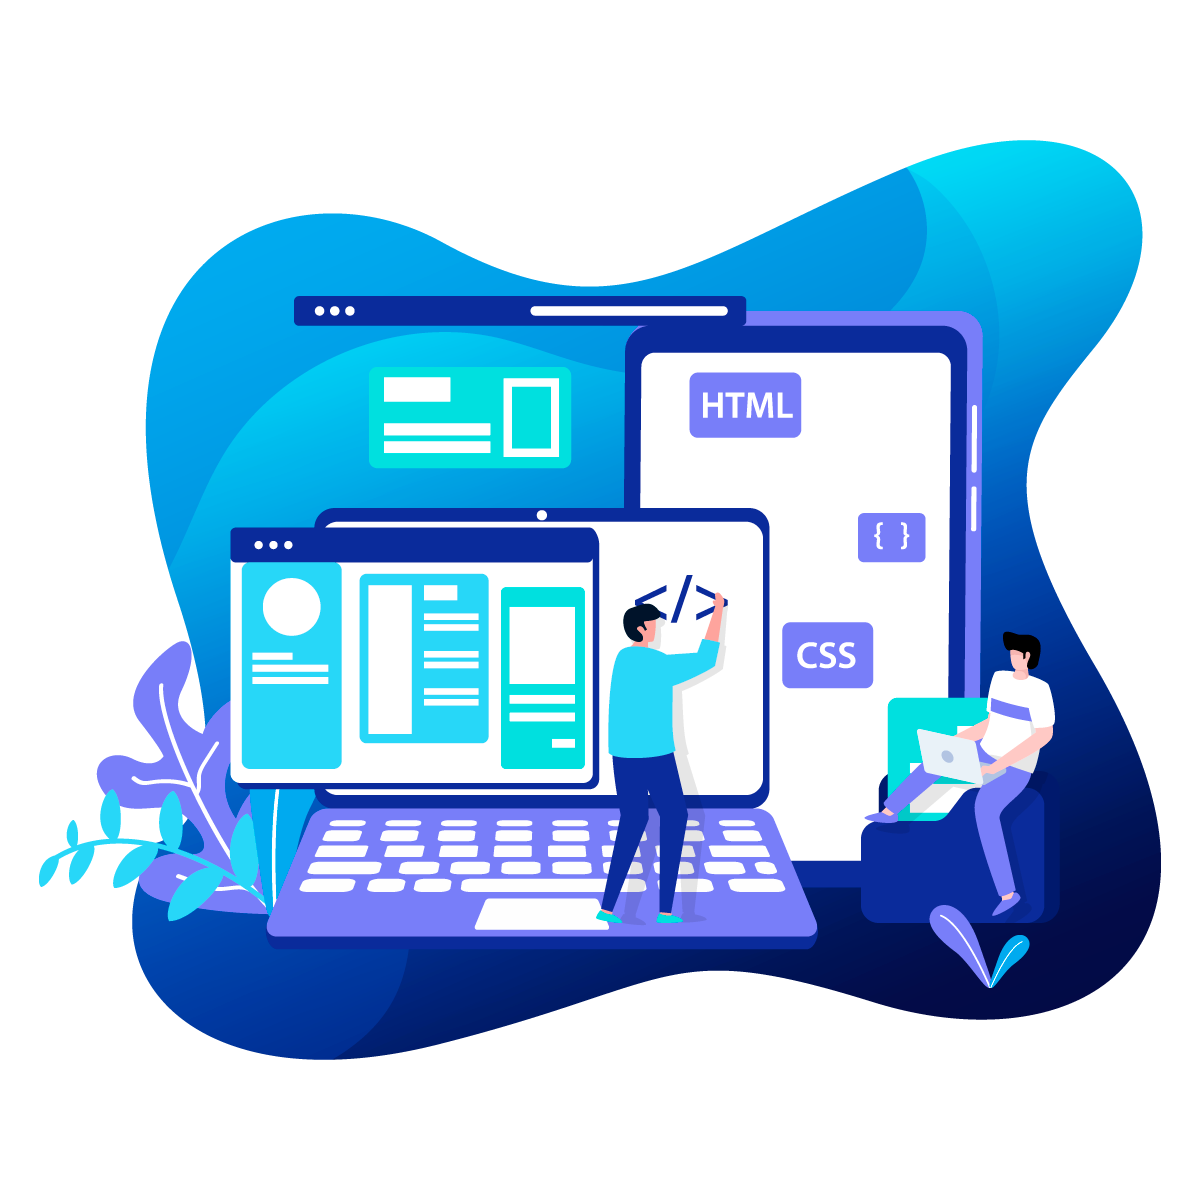
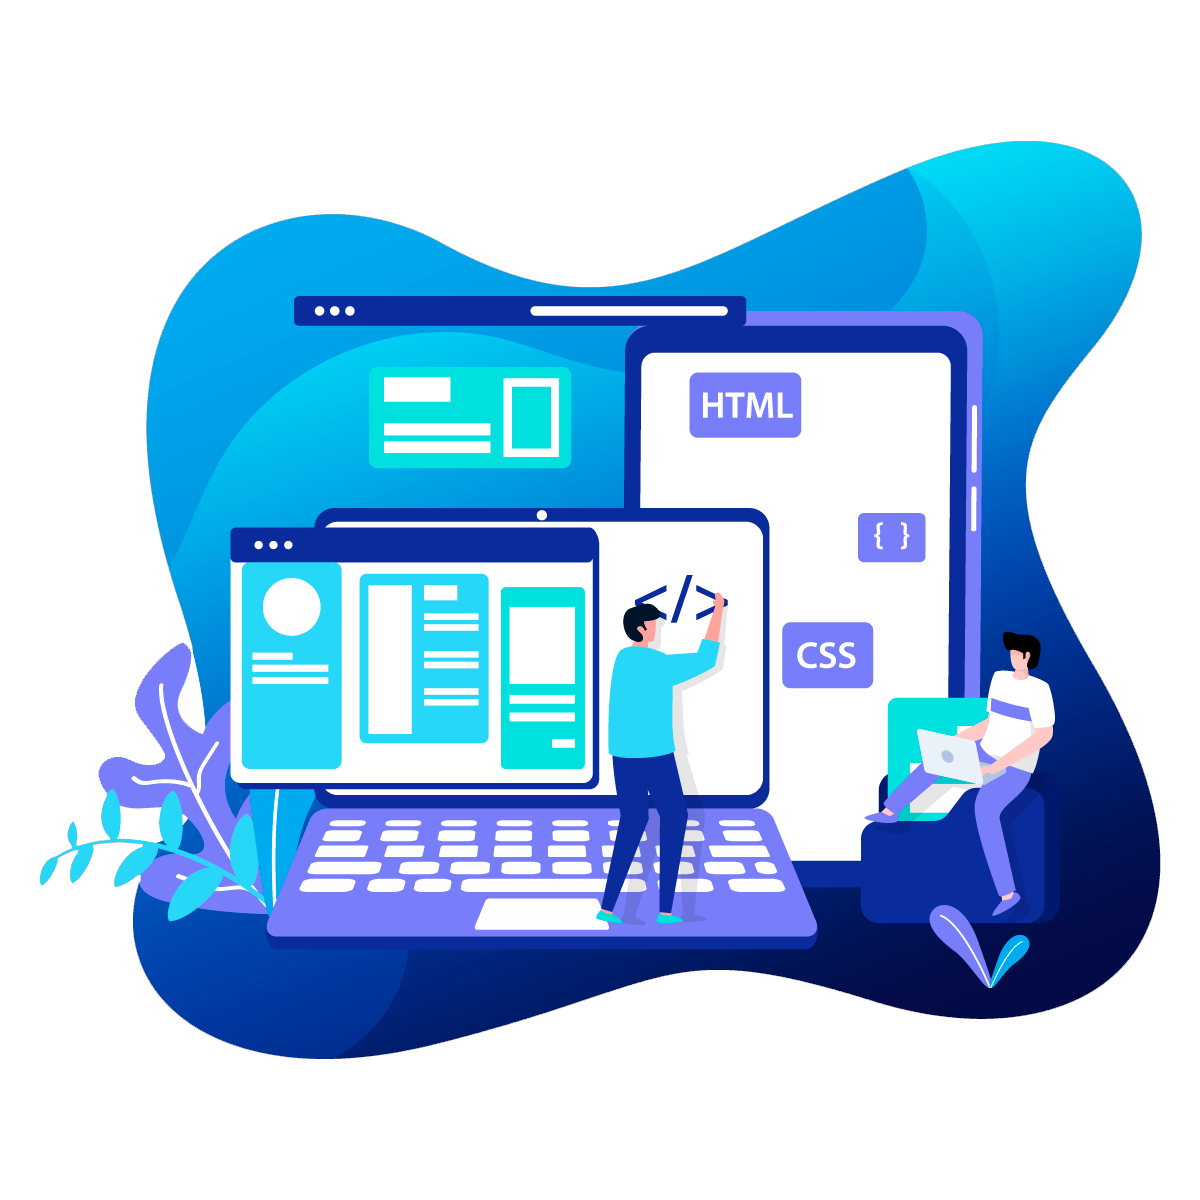
cropped homepage image and added more styles

Changed region(s): [[0.0925, 0.7092, 0.1233, 0.74], [0.0617, 0.6783, 0.0925, 0.7092], [0.0308, 0.7092, 0.0617, 0.74]]

diff --git a/index.html b/index.html
@@ -3,11 +3,25 @@
   <head>
     <meta charset="UTF-8" />
     <meta name="viewport" content="width=device-width, initial-scale=1.0" />
-    <title>Document</title>
+    <title>Desarrollador Web | Alonso Cabret</title>
+
+    <meta property="og:locale" content="es_CL" />
+    <meta property="og:type" content="website" />
+    <meta property="og:title" content="Desarrollador Web | Alonso Cabret" />
+    <meta property="og:description" content="" />
+    <meta property="og:url" content="https://www.acabret.com/es/" />
+    <meta property="og:site_name" content="Alonso Cabret" />
+    <meta property="og:image" content="" />
+
+    <link rel="shortcut icon" type="image/png" href="/img/icono_pagina.png" />
 
     <link rel="stylesheet" href="/css/styles.css" />
     <script src="js/app.js" defer></script>
-    <script src="https://kit.fontawesome.com/27dfb3bdd2.js" defer crossorigin="anonymous"></script>
+    <script
+      src="https://kit.fontawesome.com/27dfb3bdd2.js"
+      defer
+      crossorigin="anonymous"
+    ></script>
   </head>
   <body>
     <section class="homepage">
@@ -19,28 +33,28 @@
             <ul>
               <li class="navigation__nav-item">
                 <a href="#" class="navigation__link">Sobre mí</a>
+                <div class="link-underline"></div>
               </li>
               <li class="navigation__nav-item">
                 <a href="#" class="navigation__link">Portafolio</a>
+                <div class="link-underline"></div>
               </li>
               <li class="navigation__nav-item">
                 <a href="#" class="navigation__link">Contacto</a>
+                <div class="link-underline"></div>
               </li>
               <li class="navigation__nav-item">
                 <a href="#" class="navigation__link">Night/light mode</a>
+                <div class="link-underline"></div>
               </li>
             </ul>
           </nav>
         </header>
         <section class="homepage__main">
-
-          <h2>Frontend Junior Dev</h2>
+          <h2>Frontend Junior Dev<span>_</span>
+          </h2>
           <h4>Open for work</h4>
-          <img class="homepage__image"src="/img/homepage-image.png" alt="">
-
-
-
-
+          <img class="homepage__image" src="/img/homepage-image.png" alt="" />
         </section>
       </div>
     </section>
@@ -56,7 +70,9 @@
                 Consectetur aut numquam libero pariatur facere dicta sed, autem
                 ad officia exercitationem?
               </p>
-              <button id="aboutme-btn">Saber más <span class="click-me">></span></button>
+              <button id="aboutme-btn">
+                Saber más <span class="click-me">></span>
+              </button>
             </article>
           </div>
           <div class="main-content__block">
@@ -67,7 +83,9 @@
                 Consectetur aut numquam libero pariatur facere dicta sed, autem
                 ad officia exercitationem?
               </p>
-              <button id="portfolio-btn">Ver mi trabajo <span class="click-me">></span></button>
+              <button id="portfolio-btn">
+                Ver mi trabajo <span class="click-me">></span>
+              </button>
             </article>
           </div>
           <div class="main-content__block">
@@ -78,7 +96,9 @@
                 Consectetur aut numquam libero pariatur facere dicta sed, autem
                 ad officia exercitationem?
               </p>
-              <button id="contact-btn">Contáctame <span class="click-me">></span></button>
+              <button id="contact-btn">
+                Contáctame <span class="click-me">></span>
+              </button>
             </article>
           </div>
         </div>
@@ -93,20 +113,34 @@
 
     <footer class="footer">
       <div class="container">
-        
         <h4>contacto@acabret.com</h4>
         <ul class="footer-media">
           <li class="footer-media__item">
-            <a href="https://www.linkedin.com/in/acabret" target="_blank"  rel="noreferrer noopener" class="footer-media__link"><i class="fab fa-linkedin"></i>
-
+            <a
+              href="https://www.linkedin.com/in/acabret"
+              target="_blank"
+              rel="noreferrer noopener"
+              class="footer-media__link"
+              ><i class="fab fa-linkedin"></i>
             </a>
           </li>
+          
           <li class="footer-media__item">
-            <a href="https://github.com/acabret/" target="_blank" rel="noreferrer noopener" class="footer-media__link"><i class="fab fa-github"></i></a>
+            <a
+              href="https://github.com/acabret/"
+              target="_blank"
+              rel="noreferrer noopener"
+              class="footer-media__link"
+              ><i class="fab fa-github"></i
+            ></a>
           </li>
           <li class="footer-media__item">
-            <a href="https://www.instagram.com/alonso.cbrt/" target="_blank"  rel="noreferrer noopener" class="footer-media__link"><i class="fab fa-instagram"></i>
-
+            <a
+              href="https://www.instagram.com/alonso.cbrt/"
+              target="_blank"
+              rel="noreferrer noopener"
+              class="footer-media__link"
+              ><i class="fab fa-instagram"></i>
             </a>
           </li>
         </ul>

diff --git a/css/styles.css b/css/styles.css
@@ -99,6 +99,10 @@ a {
   );
 }
 
+.header__navigation{
+  padding-top: .5rem;
+}
+
 .header__logo-text {
   color: white;
   font-size: 1.5rem;
@@ -115,6 +119,8 @@ a {
 .header__navigation .navigation__link {
   text-decoration: none;
   font-size: 20px;
+  /* font-weight: 100; */
+  letter-spacing: .05rem;
   color: white;
   cursor: pointer;
 }
@@ -131,19 +137,48 @@ a {
   color: white;
   margin: 0;
 }
+
+.homepage__main h2 > span{
+  display: inline-block;
+  animation: typing 1.2s infinite linear;
+}
+
+@keyframes typing{
+  0%{
+    opacity: 0;
+  }
+
+  50%{
+    opacity: 1;
+  }
+  100%{
+    opacity: 0
+  }
+
+
+}
+
+
+p{
+  line-height: 1.5rem;
+}
+
 .homepage__main h4 {
   color: white;
   font-size: 1.5rem;
 }
 
 .homepage__image {
-  display: none;
+  /* display: none; */
   position: absolute;
   top: 50%;
   right: 0;
   transform: translateY(-50%);
   width: 400px;
 }
+
+
+
 
 @media (min-width: 768px) {
   .header__logo-text {
@@ -156,6 +191,23 @@ a {
 
   .homepage__main h2 {
     max-width: 50%;
+  }
+
+  .link-underline{
+
+    margin-top: 0.5rem;
+    height: 3px;
+    width: 100%;
+    background-color: white;
+    transform: scaleX(0);
+    transition: all .2s ease-out;
+  
+  }
+  
+  .navigation__nav-item:hover .link-underline{
+  
+    transform: scaleX(1);
+  
   }
 }
 
@@ -185,11 +237,13 @@ a {
 .main-content__inner button {
   display: inline-block;
   position: relative;
-  background-color: rgb(19, 19, 93);
+  background-color: rgb(9, 86, 150);
   color: white;
   padding: 0.5rem 1.5rem;
   font-size: 1rem;
-  font-weight: 600;
+  font-weight: 100;
+  font-family: var(--header-font);
+  /* letter-spacing: 2px; */
   cursor: pointer;
   outline: none;
   border: none;

diff --git a/js/app.js b/js/app.js
@@ -2,6 +2,7 @@ const portfolioBtn = document.querySelector("#portfolio-btn");
 const aboutmeBtn = document.querySelector("#aboutme-btn");
 const contactBtn = document.querySelector("#contact-btn");
 const displayWrapper = document.querySelector(".display-wrapper");
+const footer = document.querySelector('footer');
 
 // console.log(portfolioBtn);
 
@@ -20,7 +21,7 @@ contactBtn.addEventListener("click", (event) => {
   displayWrapper.classList.add('show');
   
   setTimeout(()=>{
-    displayWrapper.scrollIntoView({block:"end", behavior:"smooth"})
+    footer.scrollIntoView({block:"end", behavior:"smooth"})
   }
   ,1000)
 });
@@ -34,6 +35,7 @@ function loadAboutMe() {
   <p>about me</p>
   <p>about me</p>
   <p>about me</p>
+  <img src="/img/homepage-image.png" width="300px" alt="">
   <p>about me</p>
   <p>about me</p>`;
 }
